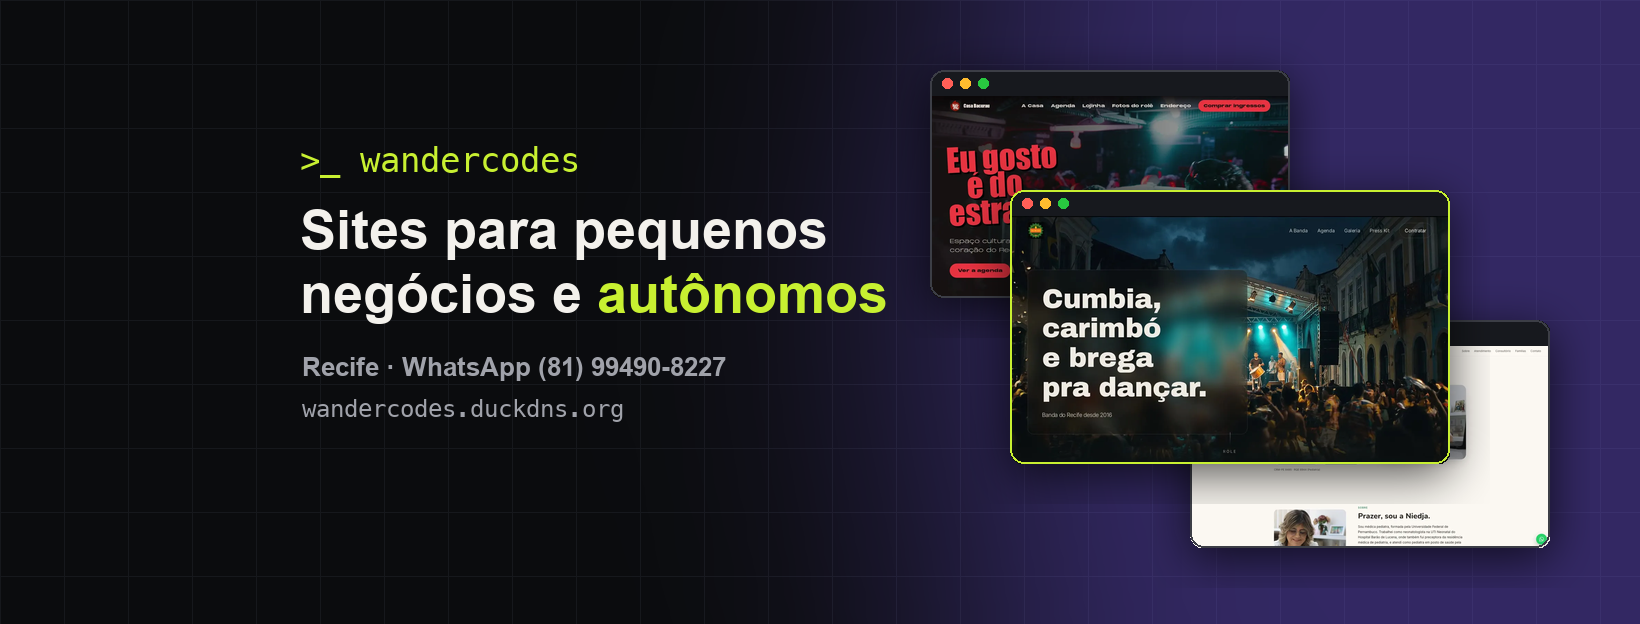
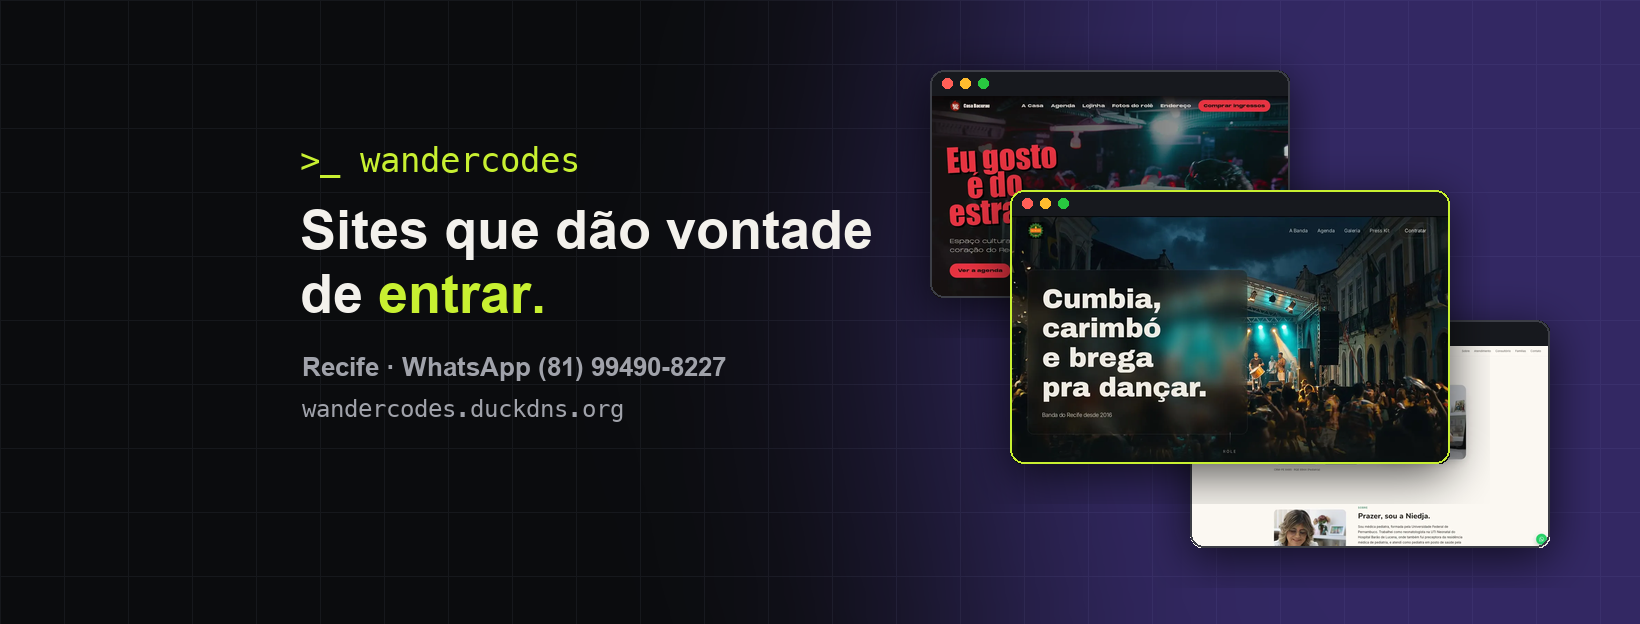
Capa: volta a frase do site

Changed region(s): [[0.1866, 0.3349, 0.5598, 0.5176], [0.1866, 0.4263, 0.2177, 0.4567]]

diff --git a/divulgacao/capa.py b/divulgacao/capa.py
@@ -30,9 +30,9 @@ d = ImageDraw.Draw(im)
 # texto (lado esquerdo, acima de onde fica a foto do perfil)
 d.text((300, 140), ">_ wandercodes", font=ImageFont.truetype(MONO, 34), fill=ACENTO)
 ft = ImageFont.truetype(NEG, 54)
-d.text((300, 200), "Sites para pequenos", font=ft, fill=TEXTO)
-d.text((300, 264), "negócios e ", font=ft, fill=TEXTO)
-d.text((300 + d.textlength("negócios e ", font=ft), 264), "autônomos", font=ft, fill=ACENTO)
+d.text((300, 200), "Sites que dão vontade", font=ft, fill=TEXTO)
+d.text((300, 264), "de ", font=ft, fill=TEXTO)
+d.text((300 + d.textlength("de ", font=ft), 264), "entrar.", font=ft, fill=ACENTO)
 d.text((302, 352), "Recife · WhatsApp (81) 99490-8227", font=ImageFont.truetype(NEG, 26), fill=SUAVE)
 d.text((302, 394), "wandercodes.duckdns.org", font=ImageFont.truetype(MONO, 24), fill=SUAVE)
 out = pathlib.Path(__file__).with_name("capa-facebook.png"); im.save(out); print(out)
